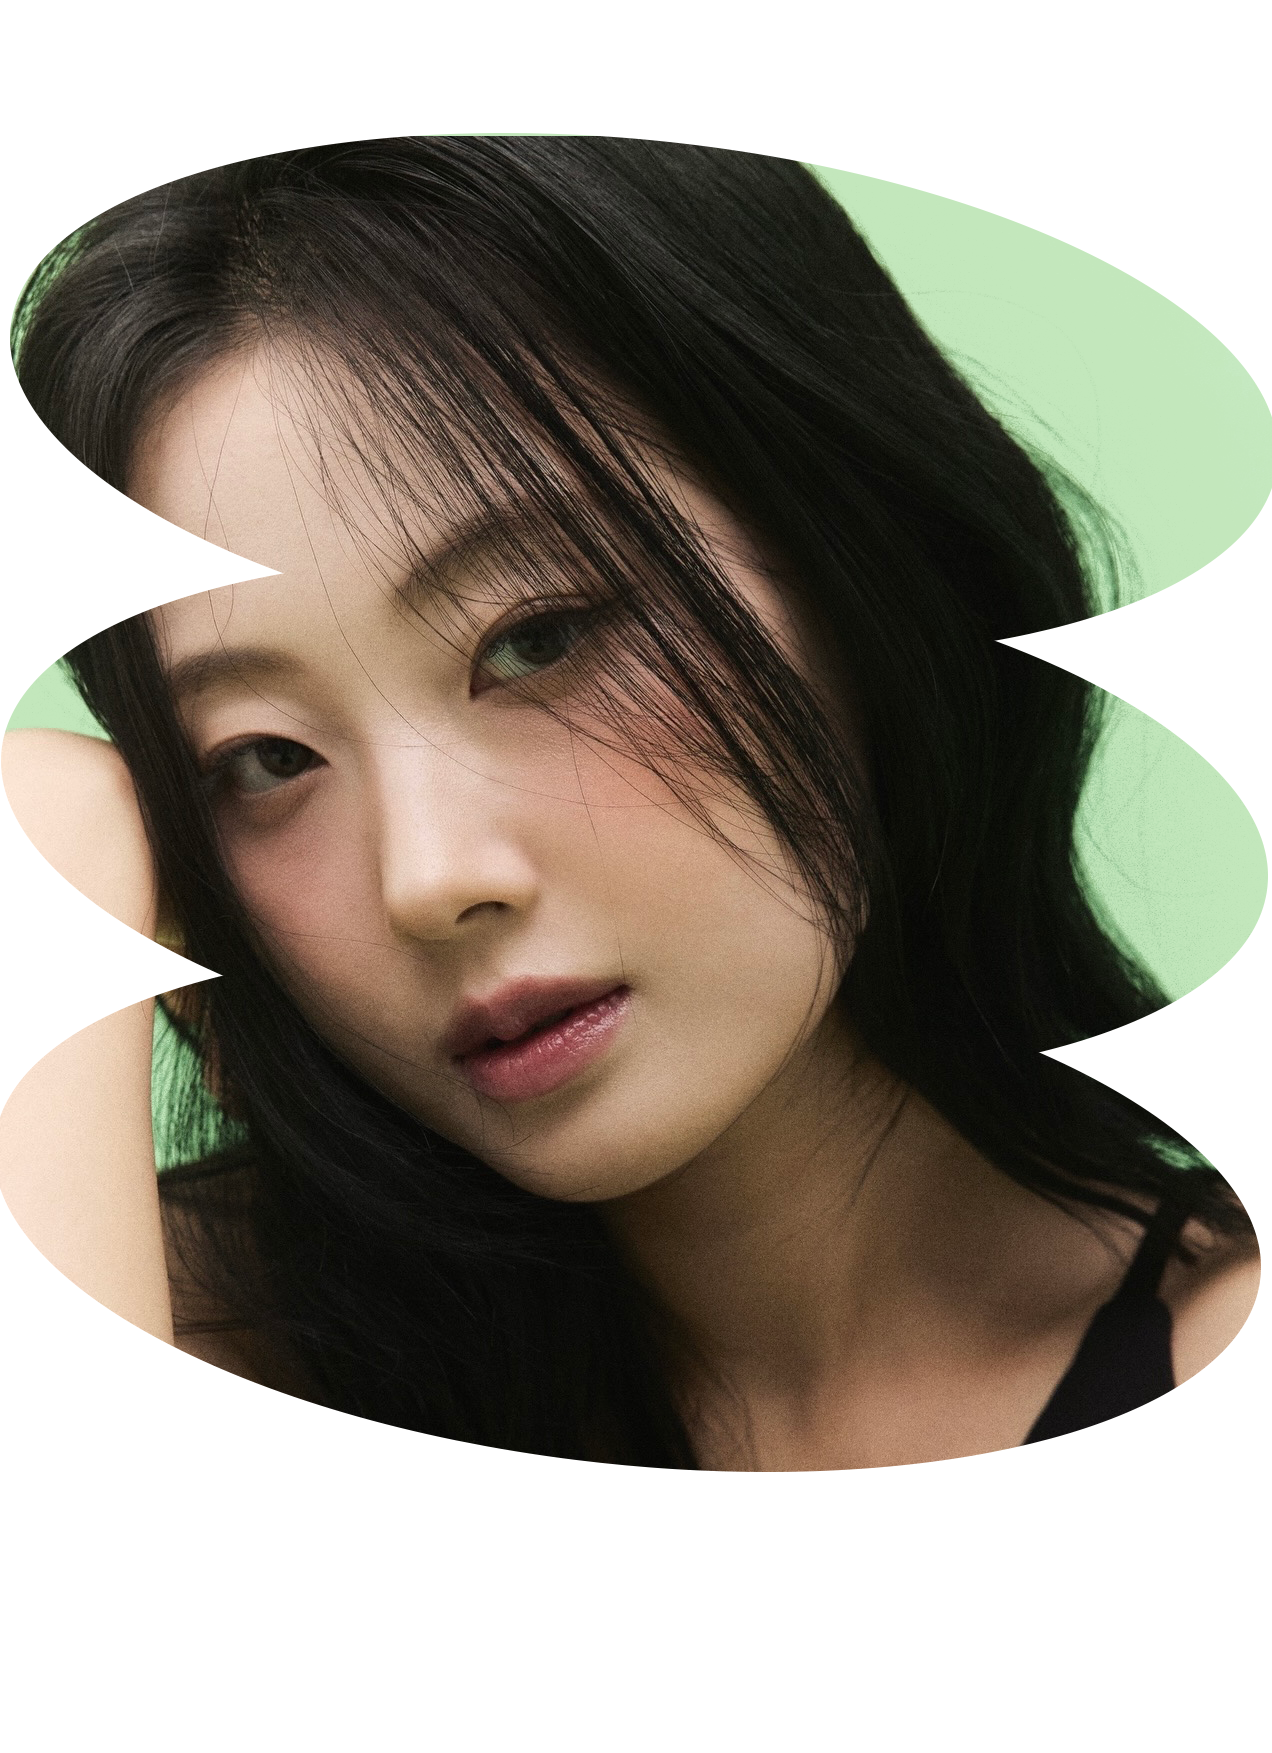
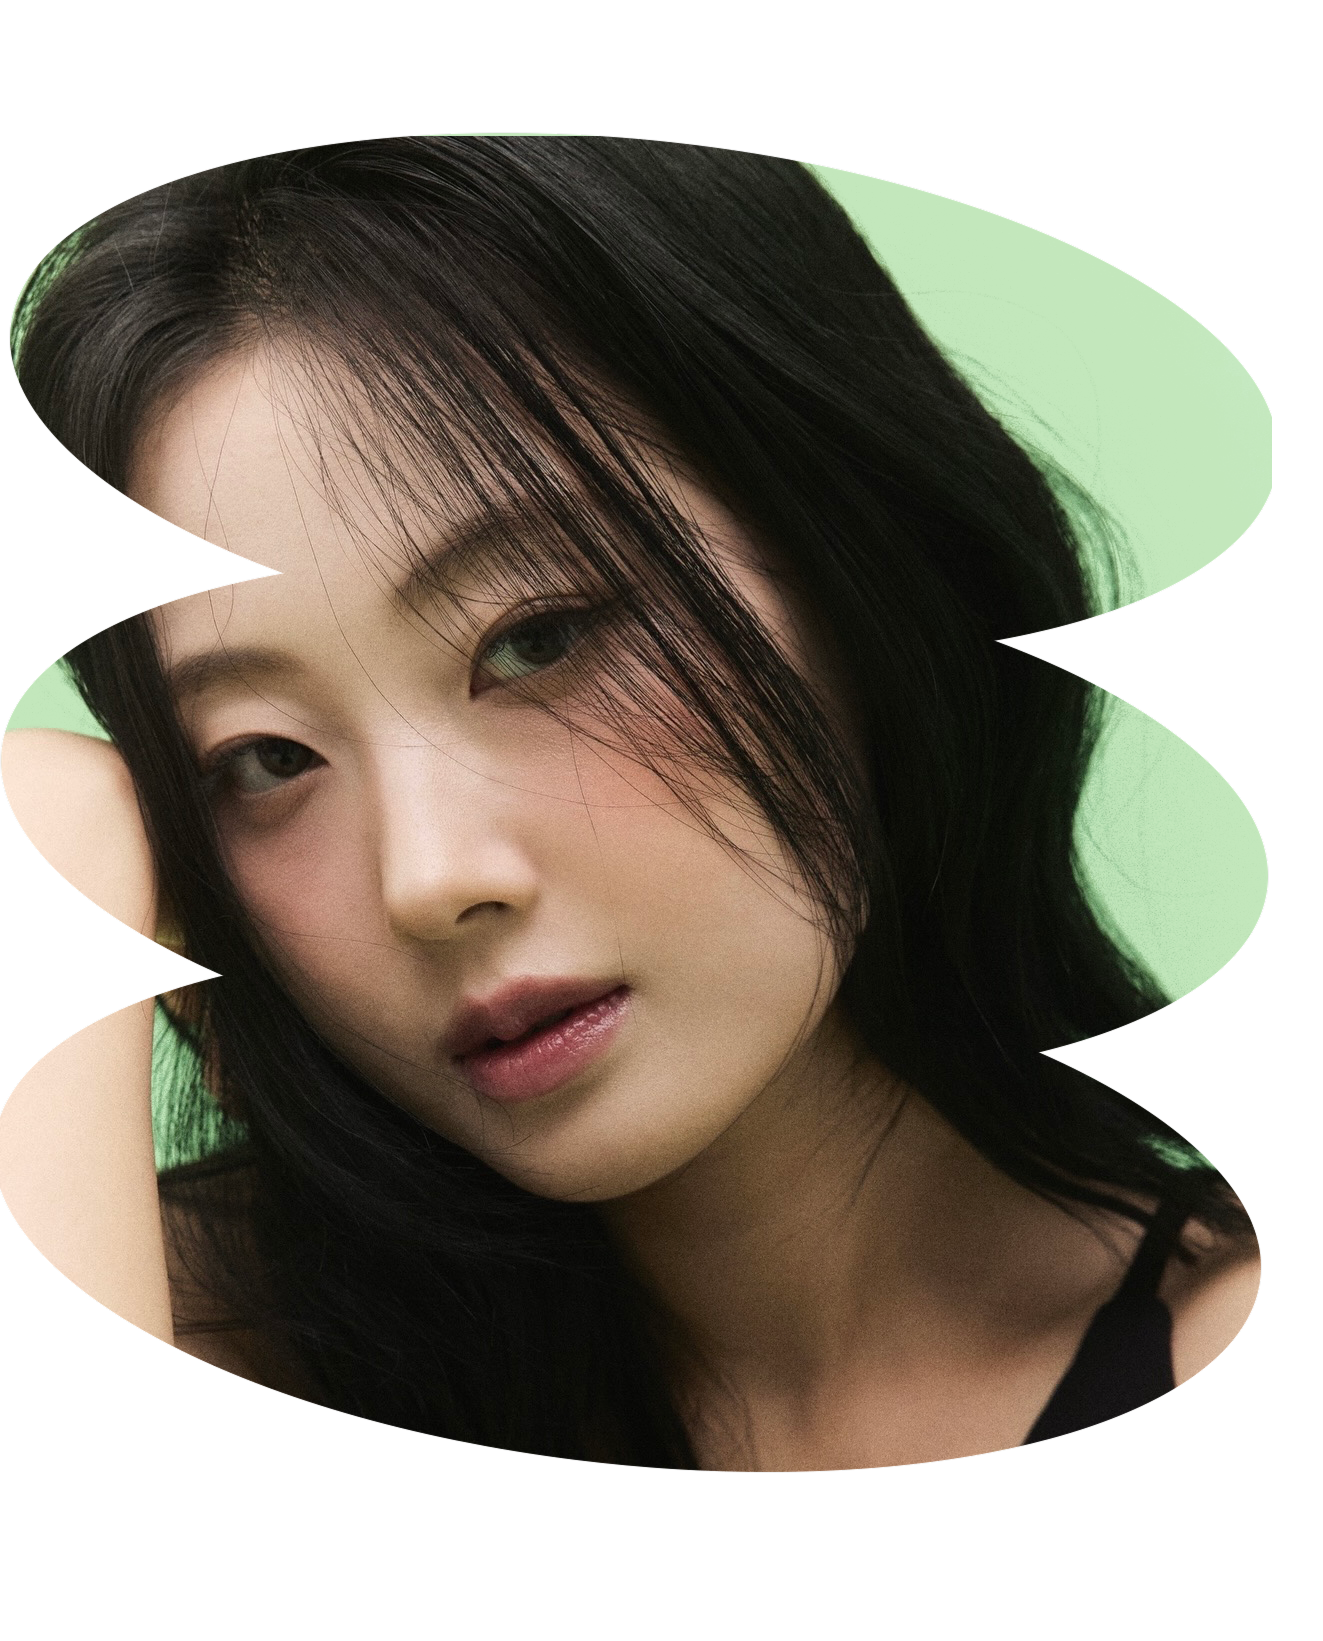
update

diff --git a/src/js/design.js b/src/js/design.js
@@ -13,7 +13,7 @@ export const designProjects = [
         id: "design-01",
         type: "photoshop",
         title: "작업 01",
-        desc: "GPT 이미지 생성과 Photoshop 편집을 활용해 따뜻한 베이지 톤의 브랜드 무드를 담은 라이프스타일 제품 상세 페이지 형식으로 완성한 디자인 작업입니다.",
+        desc: "ChatGPT 이미지 생성과 Photoshop 편집을 활용해 따뜻한 베이지 톤의 브랜드 무드를 담은 라이프스타일 제품 상세 페이지 형식으로 완성한 디자인 작업입니다.",
         notionUrl: "https://www.notion.so/34f51f8c416680aabcd0ec5a081bddf3?source=copy_link",
         image: getDesignImage("design-new-01.png"),
         imageAlt: "작업 01 대표 이미지",

diff --git a/src/pages/AboutPage.jsx b/src/pages/AboutPage.jsx
@@ -67,7 +67,7 @@ function AboutPage() {
                         className="abt-profile-img"
                       />
                     </div>
-
+                    
                     <div className="abt-intro-img-box">
                       <img
                         src={introTextImg}

diff --git a/src/styles/about.css b/src/styles/about.css
@@ -113,7 +113,7 @@ body {
   flex-direction: column;
   align-items: center;
   justify-content: flex-start;
-  padding-top: 5px;
+  padding-top: 6px;
   min-height: auto;
 }
 
